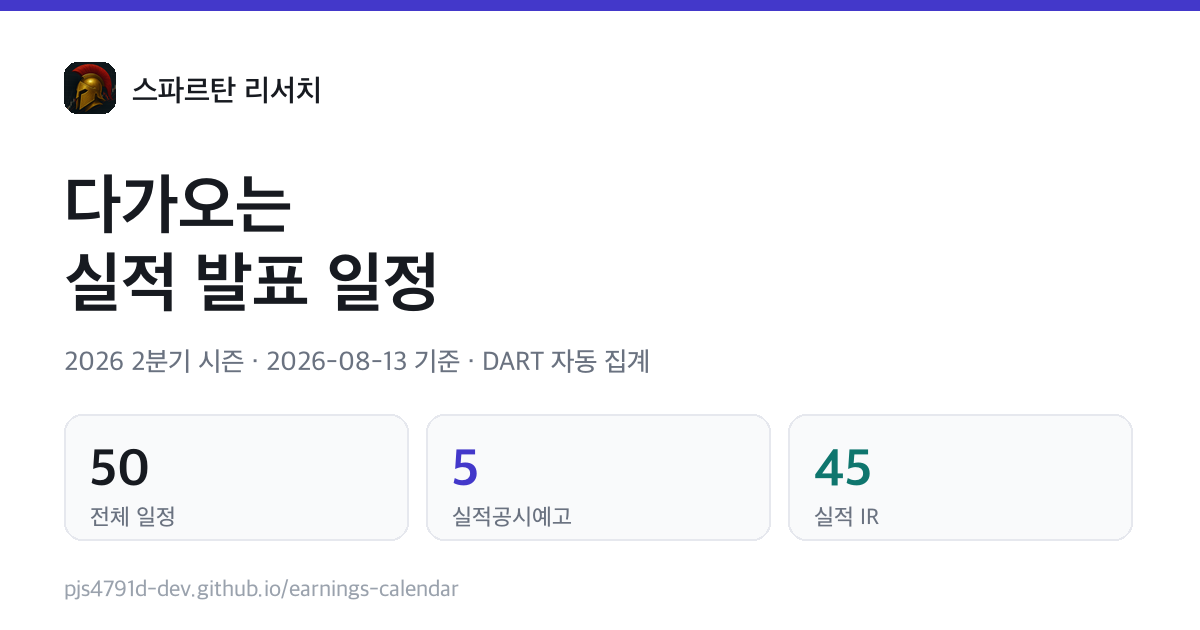
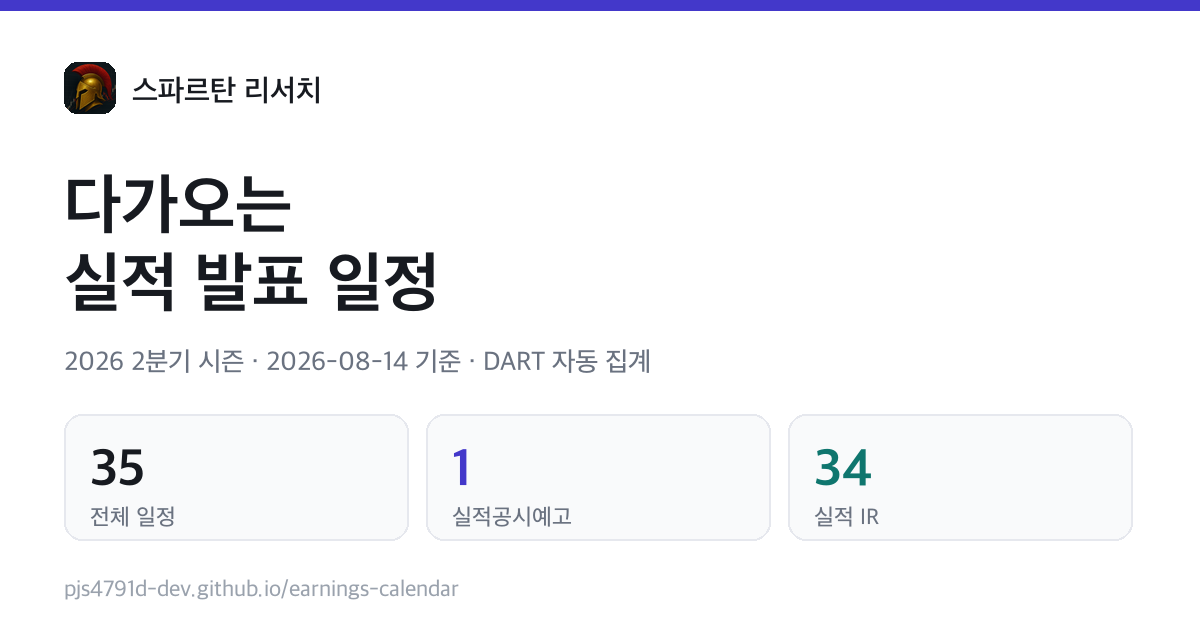
자동 갱신 2026-08-14 09:01

diff --git a/index.html b/index.html
@@ -7,13 +7,13 @@
 <meta property="og:type" content="website">
 <meta property="og:site_name" content="스파르탄 리서치">
 <meta property="og:title" content="다가오는 실적 발표 일정 · 스파르탄 리서치">
-<meta property="og:description" content="2026 2분기 시즌 · 총 50건 (예고 5 · 실적IR 45) · 2026-08-13 기준 · DART 공시 자동 집계">
+<meta property="og:description" content="2026 2분기 시즌 · 총 35건 (예고 1 · 실적IR 34) · 2026-08-14 기준 · DART 공시 자동 집계">
 <meta property="og:url" content="https://pjs4791d-dev.github.io/earnings-calendar/">
 <meta property="og:image" content="https://pjs4791d-dev.github.io/earnings-calendar/og.png">
 <meta property="og:image:width" content="1200">
 <meta property="og:image:height" content="630">
 <meta name="twitter:card" content="summary_large_image">
-<meta name="description" content="2026 2분기 시즌 · 총 50건 (예고 5 · 실적IR 45) · 2026-08-13 기준 · DART 공시 자동 집계">
+<meta name="description" content="2026 2분기 시즌 · 총 35건 (예고 1 · 실적IR 34) · 2026-08-14 기준 · DART 공시 자동 집계">
 <link rel="icon" type="image/png" sizes="32x32" href="icon-32.png">
 <link rel="icon" type="image/png" sizes="64x64" href="icon-64.png">
 <link rel="shortcut icon" href="favicon.ico">
@@ -328,14 +328,14 @@ h1{font-size:26px;line-height:1.18;font-weight:700;letter-spacing:-.025em;margin
 <section id="p-cal">
  <p class="eyebrow">Earnings Calendar · KRX</p>
  <h1>다가오는 실적 발표 일정</h1>
- <p class="meta"><b>2026 2분기</b> 시즌 · 조회기간 <b>2026-07-01 ~ 2026-08-13</b> 접수 공시<br>
+ <p class="meta"><b>2026 2분기</b> 시즌 · 조회기간 <b>2026-07-01 ~ 2026-08-14</b> 접수 공시<br>
    실적공시예고와 실적 관련 IR개최만 자동 선별했습니다.</p>
 
  <div class="stats">
-  <div class="stat"><div class="num" id="cnt">50</div><div class="lbl">전체 일정</div></div>
-  <div class="stat s-yego"><div class="num" id="n-yego">5</div><div class="lbl">실적공시예고</div></div>
-  <div class="stat s-ir"><div class="num" id="n-ir">45</div><div class="lbl">실적 IR</div></div>
-  <div class="stat s-both"><div class="num" id="n-both">4</div><div class="lbl">예고+IR 기업</div></div>
+  <div class="stat"><div class="num" id="cnt">35</div><div class="lbl">전체 일정</div></div>
+  <div class="stat s-yego"><div class="num" id="n-yego">1</div><div class="lbl">실적공시예고</div></div>
+  <div class="stat s-ir"><div class="num" id="n-ir">34</div><div class="lbl">실적 IR</div></div>
+  <div class="stat s-both"><div class="num" id="n-both">1</div><div class="lbl">예고+IR 기업</div></div>
  </div>
 
  <div class="search">
@@ -350,7 +350,7 @@ h1{font-size:26px;line-height:1.18;font-weight:700;letter-spacing:-.025em;margin
   <span class="k"><span class="fu" style="margin:0">후속</span> 이미 발표된 실적의 후속 IR</span>
  </div>
 
- <div class="list"><div class="day" data-d="2026-08-13"><div class="day-d"><span class="dm">8.13</span><span class="dw">목</span><span class="dn">16</span></div><div class="day-e"><a class="ev" href="https://dart.fss.or.kr/dsaf001/main.do?rcpNo=20260811800640" target="_blank" rel="noopener" data-corp="신세계"><div class="ev-t"><span class="notime">시간미정</span></div><div class="ev-c">신세계<span class="fu">후속 · 8/11 발표</span></div><div class="ev-b"><span class="tag t-ir">IR</span><span class="go">↗</span></div></a><a class="ev" href="https://dart.fss.or.kr/dsaf001/main.do?rcpNo=20260807900296" target="_blank" rel="noopener" data-corp="클리오"><div class="ev-t"><span class="notime">시간미정</span></div><div class="ev-c">클리오</div><div class="ev-b"><span class="tag t-yego">예고</span><span class="go">↗</span></div></a><a class="ev" href="https://dart.fss.or.kr/dsaf001/main.do?rcpNo=20260806800162" target="_blank" rel="noopener" data-corp="이마트"><div class="ev-t"><span class="notime">시간미정</span></div><div class="ev-c">이마트<span class="both" title="예고·IR 모두 공시">*</span></div><div class="ev-b"><span class="tag t-yego">예고</span><span class="go">↗</span></div></a><a class="ev" href="https://dart.fss.or.kr/dsaf001/main.do?rcpNo=20260730800315" target="_blank" rel="noopener" data-corp="달바글로벌"><div class="ev-t"><span class="notime">시간미정</span></div><div class="ev-c">달바글로벌<span class="both" title="예고·IR 모두 공시">*</span></div><div class="ev-b"><span class="tag t-yego">예고</span><span class="go">↗</span></div></a><a class="ev" href="https://dart.fss.or.kr/dsaf001/main.do?rcpNo=20260724800729" target="_blank" rel="noopener" data-corp="lg"><div class="ev-t"><span class="notime">시간미정</span></div><div class="ev-c">LG<span class="both" title="예고·IR 모두 공시">*</span></div><div class="ev-b"><span class="tag t-yego">예고</span><span class="go">↗</span></div></a><a class="ev" href="https://dart.fss.or.kr/dsaf001/main.do?rcpNo=20260812900064" target="_blank" rel="noopener" data-corp="티엘비"><div class="ev-t">09:00</div><div class="ev-c">티엘비<span class="fu">후속 · 8/3 발표</span></div><div class="ev-b"><span class="tag t-ir">IR</span><span class="go">↗</span></div></a><a class="ev" href="https://dart.fss.or.kr/dsaf001/main.do?rcpNo=20260731801034" target="_blank" rel="noopener" data-corp="삼성화재해상보험"><div class="ev-t">10:00</div><div class="ev-c">삼성화재해상보험</div><div class="ev-b"><span class="tag t-ir">IR</span><span class="go">↗</span></div></a><a class="ev" href="https://dart.fss.or.kr/dsaf001/main.do?rcpNo=20260730900431" target="_blank" rel="noopener" data-corp="씨어스"><div class="ev-t">10:00</div><div class="ev-c">씨어스</div><div class="ev-b"><span class="tag t-ir">IR</span><span class="go">↗</span></div></a><a class="ev" href="https://dart.fss.or.kr/dsaf001/main.do?rcpNo=20260805800262" target="_blank" rel="noopener" data-corp="동원산업"><div class="ev-t">10:30</div><div class="ev-c">동원산업<span class="fu">후속 · 8/12 발표</span></div><div class="ev-b"><span class="tag t-ir">IR</span><span class="go">↗</span></div></a><a class="ev" href="https://dart.fss.or.kr/dsaf001/main.do?rcpNo=20260706800671" target="_blank" rel="noopener" data-corp="달바글로벌"><div class="ev-t">10:30</div><div class="ev-c">달바글로벌<span class="both" title="예고·IR 모두 공시">*</span></div><div class="ev-b"><span class="tag t-ir">IR</span><span class="go">↗</span></div></a><a class="ev" href="https://dart.fss.or.kr/dsaf001/main.do?rcpNo=20260812900196" target="_blank" rel="noopener" data-corp="쿠콘"><div class="ev-t">14:00</div><div class="ev-c">쿠콘<span class="fu">후속 · 7/28 발표</span></div><div class="ev-b"><span class="tag t-ir">IR</span><span class="go">↗</span></div></a><a class="ev" href="https://dart.fss.or.kr/dsaf001/main.do?rcpNo=20260810800690" target="_blank" rel="noopener" data-corp="금호건설"><div class="ev-t">14:00</div><div class="ev-c">금호건설</div><div class="ev-b"><span class="tag t-ir">IR</span><span class="go">↗</span></div></a><a class="ev" href="https://dart.fss.or.kr/dsaf001/main.do?rcpNo=20260727800655" target="_blank" rel="noopener" data-corp="삼성생명"><div class="ev-t">14:00</div><div class="ev-c">삼성생명</div><div class="ev-b"><span class="tag t-ir">IR</span><span class="go">↗</span></div></a><a class="ev" href="https://dart.fss.or.kr/dsaf001/main.do?rcpNo=20260811900536" target="_blank" rel="noopener" data-corp="실리콘투"><div class="ev-t">15:00</div><div class="ev-c">실리콘투<span class="fu">후속 · 8/12 발표</span></div><div class="ev-b"><span class="tag t-ir">IR</span><span class="go">↗</span></div></a><a class="ev" href="https://dart.fss.or.kr/dsaf001/main.do?rcpNo=20260724800743" target="_blank" rel="noopener" data-corp="lg"><div class="ev-t">15:30</div><div class="ev-c">LG<span class="both" title="예고·IR 모두 공시">*</span></div><div class="ev-b"><span class="tag t-ir">IR</span><span class="go">↗</span></div></a><a class="ev" href="https://dart.fss.or.kr/dsaf001/main.do?rcpNo=20260805800322" target="_blank" rel="noopener" data-corp="db손해보험"><div class="ev-t">16:00</div><div class="ev-c">DB손해보험</div><div class="ev-b"><span class="tag t-ir">IR</span><span class="go">↗</span></div></a></div></div><div class="day" data-d="2026-08-14"><div class="day-d"><span class="dm">8.14</span><span class="dw">금</span><span class="dn">11</span></div><div class="day-e"><a class="ev" href="https://dart.fss.or.kr/dsaf001/main.do?rcpNo=20260812800143" target="_blank" rel="noopener" data-corp="미래에셋증권"><div class="ev-t"><span class="notime">시간미정</span></div><div class="ev-c">미래에셋증권<span class="fu">후속 · 8/12 발표</span></div><div class="ev-b"><span class="tag t-ir">IR</span><span class="go">↗</span></div></a><a class="ev" href="https://dart.fss.or.kr/dsaf001/main.do?rcpNo=20260806800632" target="_blank" rel="noopener" data-corp="sk네트웍스"><div class="ev-t"><span class="notime">시간미정</span></div><div class="ev-c">SK네트웍스<span class="both" title="예고·IR 모두 공시">*</span></div><div class="ev-b"><span class="tag t-yego">예고</span><span class="go">↗</span></div></a><a class="ev" href="https://dart.fss.or.kr/dsaf001/main.do?rcpNo=20260813800089" target="_blank" rel="noopener" data-corp="한국콜마"><div class="ev-t">09:00</div><div class="ev-c">한국콜마<span class="new">NEW</span><span class="fu">후속 · 8/12 발표</span></div><div class="ev-b"><span class="tag t-ir">IR</span><span class="go">↗</span></div></a><a class="ev" href="https://dart.fss.or.kr/dsaf001/main.do?rcpNo=20260811900534" target="_blank" rel="noopener" data-corp="브이티"><div class="ev-t">09:00</div><div class="ev-c">브이티</div><div class="ev-b"><span class="tag t-ir">IR</span><span class="go">↗</span></div></a><a class="ev" href="https://dart.fss.or.kr/dsaf001/main.do?rcpNo=20260714800500" target="_blank" rel="noopener" data-corp="현대해상"><div class="ev-t">10:00</div><div class="ev-c">현대해상</div><div class="ev-b"><span class="tag t-ir">IR</span><span class="go">↗</span></div></a><a class="ev" href="https://dart.fss.or.kr/dsaf001/main.do?rcpNo=20260812800825" target="_blank" rel="noopener" data-corp="아이에스동서"><div class="ev-t">14:00</div><div class="ev-c">아이에스동서</div><div class="ev-b"><span class="tag t-ir">IR</span><span class="go">↗</span></div></a><a class="ev" href="https://dart.fss.or.kr/dsaf001/main.do?rcpNo=20260806800636" target="_blank" rel="noopener" data-corp="sk네트웍스"><div class="ev-t">14:00</div><div class="ev-c">SK네트웍스<span class="both" title="예고·IR 모두 공시">*</span></div><div class="ev-b"><span class="tag t-ir">IR</span><span class="go">↗</span></div></a><a class="ev" href="https://dart.fss.or.kr/dsaf001/main.do?rcpNo=20260804800232" target="_blank" rel="noopener" data-corp="서울보증보험"><div class="ev-t">14:00</div><div class="ev-c">서울보증보험</div><div class="ev-b"><span class="tag t-ir">IR</span><span class="go">↗</span></div></a><a class="ev" href="https://dart.fss.or.kr/dsaf001/main.do?rcpNo=20260805800572" target="_blank" rel="noopener" data-corp="미래에셋생명"><div class="ev-t">16:00</div><div class="ev-c">미래에셋생명</div><div class="ev-b"><span class="tag t-ir">IR</span><span class="go">↗</span></div></a><a class="ev" href="https://dart.fss.or.kr/dsaf001/main.do?rcpNo=20260804800605" target="_blank" rel="noopener" data-corp="에스디바이오센서"><div class="ev-t">16:00</div><div class="ev-c">에스디바이오센서</div><div class="ev-b"><span class="tag t-ir">IR</span><span class="go">↗</span></div></a><a class="ev" href="https://dart.fss.or.kr/dsaf001/main.do?rcpNo=20260811800548" target="_blank" rel="noopener" data-corp="미스토홀딩스"><div class="ev-t">16:30</div><div class="ev-c">미스토홀딩스</div><div class="ev-b"><span class="tag t-ir">IR</span><span class="go">↗</span></div></a></div></div><div class="day" data-d="2026-08-18"><div class="day-d"><span class="dm">8.18</span><span class="dw">화</span><span class="dn">13</span></div><div class="day-e"><a class="ev" href="https://dart.fss.or.kr/dsaf001/main.do?rcpNo=20260813800830" target="_blank" rel="noopener" data-corp="이마트"><div class="ev-t"><span class="notime">시간미정</span></div><div class="ev-c">이마트<span class="both" title="예고·IR 모두 공시">*</span><span class="new">NEW</span><span class="fu">후속 · 8/13 발표</span></div><div class="ev-b"><span class="tag t-ir">IR</span><span class="go">↗</span></div></a><a class="ev" href="https://dart.fss.or.kr/dsaf001/main.do?rcpNo=20260813801008" target="_blank" rel="noopener" data-corp="sk케미칼"><div class="ev-t">09:00</div><div class="ev-c">SK케미칼<span class="new">NEW</span></div><div class="ev-b"><span class="tag t-ir">IR</span><span class="go">↗</span></div></a><a class="ev" href="https://dart.fss.or.kr/dsaf001/main.do?rcpNo=20260813900371" target="_blank" rel="noopener" data-corp="퓨릿"><div class="ev-t">09:00</div><div class="ev-c">퓨릿<span class="new">NEW</span></div><div class="ev-b"><span class="tag t-ir">IR</span><span class="go">↗</span></div></a><a class="ev" href="https://dart.fss.or.kr/dsaf001/main.do?rcpNo=20260813900329" target="_blank" rel="noopener" data-corp="이엔에프테크놀로지"><div class="ev-t">09:00</div><div class="ev-c">이엔에프테크놀로지<span class="new">NEW</span></div><div class="ev-b"><span class="tag t-ir">IR</span><span class="go">↗</span></div></a><a class="ev" href="https://dart.fss.or.kr/dsaf001/main.do?rcpNo=20260812800823" target="_blank" rel="noopener" data-corp="아이에스동서"><div class="ev-t">09:00</div><div class="ev-c">아이에스동서<span class="fu">후속 · 8/14 발표</span></div><div class="ev-b"><span class="tag t-ir">IR</span><span class="go">↗</span></div></a><a class="ev" href="https://dart.fss.or.kr/dsaf001/main.do?rcpNo=20260812900467" target="_blank" rel="noopener" data-corp="컴투스"><div class="ev-t">09:00</div><div class="ev-c">컴투스<span class="fu">후속 · 8/12 발표</span></div><div class="ev-b"><span class="tag t-ir">IR</span><span class="go">↗</span></div></a><a class="ev" href="https://dart.fss.or.kr/dsaf001/main.do?rcpNo=20260811800515" target="_blank" rel="noopener" data-corp="lg"><div class="ev-t">09:00</div><div class="ev-c">LG<span class="both" title="예고·IR 모두 공시">*</span><span class="fu">후속 · 8/13 발표</span></div><div class="ev-b"><span class="tag t-ir">IR</span><span class="go">↗</span></div></a><a class="ev" href="https://dart.fss.or.kr/dsaf001/main.do?rcpNo=20260810800318" target="_blank" rel="noopener" data-corp="dn오토모티브"><div class="ev-t">09:00</div><div class="ev-c">DN오토모티브</div><div class="ev-b"><span class="tag t-ir">IR</span><span class="go">↗</span></div></a><a class="ev" href="https://dart.fss.or.kr/dsaf001/main.do?rcpNo=20260806900214" target="_blank" rel="noopener" data-corp="아로마티카"><div class="ev-t">09:00</div><div class="ev-c">아로마티카<span class="fu">후속 · 8/5 발표</span></div><div class="ev-b"><span class="tag t-ir">IR</span><span class="go">↗</span></div></a><a class="ev" href="https://dart.fss.or.kr/dsaf001/main.do?rcpNo=20260811800679" target="_blank" rel="noopener" data-corp="nhn"><div class="ev-t">09:10</div><div class="ev-c">NHN<span class="fu">후속 · 8/11 발표</span></div><div class="ev-b"><span class="tag t-ir">IR</span><span class="go">↗</span></div></a><a class="ev" href="https://dart.fss.or.kr/dsaf001/main.do?rcpNo=20260813800406" target="_blank" rel="noopener" data-corp="sk이터닉스"><div class="ev-t">10:00</div><div class="ev-c">SK이터닉스<span class="new">NEW</span></div><div class="ev-b"><span class="tag t-ir">IR</span><span class="go">↗</span></div></a><a class="ev" href="https://dart.fss.or.kr/dsaf001/main.do?rcpNo=20260810800827" target="_blank" rel="noopener" data-corp="hl홀딩스"><div class="ev-t">10:00</div><div class="ev-c">HL홀딩스</div><div class="ev-b"><span class="tag t-ir">IR</span><span class="go">↗</span></div></a><a class="ev" href="https://dart.fss.or.kr/dsaf001/main.do?rcpNo=20260812900098" target="_blank" rel="noopener" data-corp="옵티팜"><div class="ev-t">16:00</div><div class="ev-c">옵티팜</div><div class="ev-b"><span class="tag t-ir">IR</span><span class="go">↗</span></div></a></div></div><div class="day" data-d="2026-08-19"><div class="day-d"><span class="dm">8.19</span><span class="dw">수</span><span class="dn">4</span></div><div class="day-e"><a class="ev" href="https://dart.fss.or.kr/dsaf001/main.do?rcpNo=20260813900114" target="_blank" rel="noopener" data-corp="바텍"><div class="ev-t">09:00</div><div class="ev-c">바텍<span class="new">NEW</span><span class="fu">후속 · 8/11 발표</span></div><div class="ev-b"><span class="tag t-ir">IR</span><span class="go">↗</span></div></a><a class="ev" href="https://dart.fss.or.kr/dsaf001/main.do?rcpNo=20260813900091" target="_blank" rel="noopener" data-corp="레이언스"><div class="ev-t">09:00</div><div class="ev-c">레이언스<span class="new">NEW</span><span class="fu">후속 · 8/11 발표</span></div><div class="ev-b"><span class="tag t-ir">IR</span><span class="go">↗</span></div></a><a class="ev" href="https://dart.fss.or.kr/dsaf001/main.do?rcpNo=20260810900129" target="_blank" rel="noopener" data-corp="한스바이오메드"><div class="ev-t">14:00</div><div class="ev-c">한스바이오메드</div><div class="ev-b"><span class="tag t-ir">IR</span><span class="go">↗</span></div></a><a class="ev" href="https://dart.fss.or.kr/dsaf001/main.do?rcpNo=20260728800567" target="_blank" rel="noopener" data-corp="이수스페셜티케미컬"><div class="ev-t">14:00</div><div class="ev-c">이수스페셜티케미컬</div><div class="ev-b"><span class="tag t-ir">IR</span><span class="go">↗</span></div></a></div></div><div class="day" data-d="2026-08-20"><div class="day-d"><span class="dm">8.20</span><span class="dw">목</span><span class="dn">1</span></div><div class="day-e"><a class="ev" href="https://dart.fss.or.kr/dsaf001/main.do?rcpNo=20260730900438" target="_blank" rel="noopener" data-corp="쿠콘"><div class="ev-t">14:00</div><div class="ev-c">쿠콘<span class="fu">후속 · 7/28 발표</span></div><div class="ev-b"><span class="tag t-ir">IR</span><span class="go">↗</span></div></a></div></div><div class="day" data-d="2026-08-21"><div class="day-d"><span class="dm">8.21</span><span class="dw">금</span><span class="dn">3</span></div><div class="day-e"><a class="ev" href="https://dart.fss.or.kr/dsaf001/main.do?rcpNo=20260812800614" target="_blank" rel="noopener" data-corp="미래에셋생명"><div class="ev-t">09:00</div><div class="ev-c">미래에셋생명<span class="fu">후속 · 8/14 발표</span></div><div class="ev-b"><span class="tag t-ir">IR</span><span class="go">↗</span></div></a><a class="ev" href="https://dart.fss.or.kr/dsaf001/main.do?rcpNo=20260812900695" target="_blank" rel="noopener" data-corp="누보"><div class="ev-t">14:00</div><div class="ev-c">누보<span class="fu">후속 · 7/30 발표</span></div><div class="ev-b"><span class="tag t-ir">IR</span><span class="go">↗</span></div></a><a class="ev" href="https://dart.fss.or.kr/dsaf001/main.do?rcpNo=20260812900345" target="_blank" rel="noopener" data-corp="제노레이"><div class="ev-t">16:00</div><div class="ev-c">제노레이</div><div class="ev-b"><span class="tag t-ir">IR</span><span class="go">↗</span></div></a></div></div><div class="day" data-d="2026-08-25"><div class="day-d"><span class="dm">8.25</span><span class="dw">화</span><span class="dn">1</span></div><div class="day-e"><a class="ev" href="https://dart.fss.or.kr/dsaf001/main.do?rcpNo=20260811800517" target="_blank" rel="noopener" data-corp="lg"><div class="ev-t">09:00</div><div class="ev-c">LG<span class="both" title="예고·IR 모두 공시">*</span><span class="fu">후속 · 8/13 발표</span></div><div class="ev-b"><span class="tag t-ir">IR</span><span class="go">↗</span></div></a></div></div><div class="day" data-d="2026-08-26"><div class="day-d"><span class="dm">8.26</span><span class="dw">수</span><span class="dn">1</span></div><div class="day-e"><a class="ev" href="https://dart.fss.or.kr/dsaf001/main.do?rcpNo=20260811900348" target="_blank" rel="noopener" data-corp="에스앤에스텍"><div class="ev-t">09:00</div><div class="ev-c">에스앤에스텍<span class="fu">후속 · 8/3 발표</span></div><div class="ev-b"><span class="tag t-ir">IR</span><span class="go">↗</span></div></a></div></div></div>
+ <div class="list"><div class="day" data-d="2026-08-14"><div class="day-d"><span class="dm">8.14</span><span class="dw">금</span><span class="dn">11</span></div><div class="day-e"><a class="ev" href="https://dart.fss.or.kr/dsaf001/main.do?rcpNo=20260812800143" target="_blank" rel="noopener" data-corp="미래에셋증권"><div class="ev-t"><span class="notime">시간미정</span></div><div class="ev-c">미래에셋증권<span class="fu">후속 · 8/12 발표</span></div><div class="ev-b"><span class="tag t-ir">IR</span><span class="go">↗</span></div></a><a class="ev" href="https://dart.fss.or.kr/dsaf001/main.do?rcpNo=20260806800632" target="_blank" rel="noopener" data-corp="sk네트웍스"><div class="ev-t"><span class="notime">시간미정</span></div><div class="ev-c">SK네트웍스<span class="both" title="예고·IR 모두 공시">*</span></div><div class="ev-b"><span class="tag t-yego">예고</span><span class="go">↗</span></div></a><a class="ev" href="https://dart.fss.or.kr/dsaf001/main.do?rcpNo=20260813800089" target="_blank" rel="noopener" data-corp="한국콜마"><div class="ev-t">09:00</div><div class="ev-c">한국콜마<span class="fu">후속 · 8/12 발표</span></div><div class="ev-b"><span class="tag t-ir">IR</span><span class="go">↗</span></div></a><a class="ev" href="https://dart.fss.or.kr/dsaf001/main.do?rcpNo=20260811900534" target="_blank" rel="noopener" data-corp="브이티"><div class="ev-t">09:00</div><div class="ev-c">브이티</div><div class="ev-b"><span class="tag t-ir">IR</span><span class="go">↗</span></div></a><a class="ev" href="https://dart.fss.or.kr/dsaf001/main.do?rcpNo=20260714800500" target="_blank" rel="noopener" data-corp="현대해상"><div class="ev-t">10:00</div><div class="ev-c">현대해상</div><div class="ev-b"><span class="tag t-ir">IR</span><span class="go">↗</span></div></a><a class="ev" href="https://dart.fss.or.kr/dsaf001/main.do?rcpNo=20260812800825" target="_blank" rel="noopener" data-corp="아이에스동서"><div class="ev-t">14:00</div><div class="ev-c">아이에스동서</div><div class="ev-b"><span class="tag t-ir">IR</span><span class="go">↗</span></div></a><a class="ev" href="https://dart.fss.or.kr/dsaf001/main.do?rcpNo=20260806800636" target="_blank" rel="noopener" data-corp="sk네트웍스"><div class="ev-t">14:00</div><div class="ev-c">SK네트웍스<span class="both" title="예고·IR 모두 공시">*</span></div><div class="ev-b"><span class="tag t-ir">IR</span><span class="go">↗</span></div></a><a class="ev" href="https://dart.fss.or.kr/dsaf001/main.do?rcpNo=20260804800232" target="_blank" rel="noopener" data-corp="서울보증보험"><div class="ev-t">14:00</div><div class="ev-c">서울보증보험</div><div class="ev-b"><span class="tag t-ir">IR</span><span class="go">↗</span></div></a><a class="ev" href="https://dart.fss.or.kr/dsaf001/main.do?rcpNo=20260805800572" target="_blank" rel="noopener" data-corp="미래에셋생명"><div class="ev-t">16:00</div><div class="ev-c">미래에셋생명</div><div class="ev-b"><span class="tag t-ir">IR</span><span class="go">↗</span></div></a><a class="ev" href="https://dart.fss.or.kr/dsaf001/main.do?rcpNo=20260804800605" target="_blank" rel="noopener" data-corp="에스디바이오센서"><div class="ev-t">16:00</div><div class="ev-c">에스디바이오센서</div><div class="ev-b"><span class="tag t-ir">IR</span><span class="go">↗</span></div></a><a class="ev" href="https://dart.fss.or.kr/dsaf001/main.do?rcpNo=20260811800548" target="_blank" rel="noopener" data-corp="미스토홀딩스"><div class="ev-t">16:30</div><div class="ev-c">미스토홀딩스</div><div class="ev-b"><span class="tag t-ir">IR</span><span class="go">↗</span></div></a></div></div><div class="day" data-d="2026-08-18"><div class="day-d"><span class="dm">8.18</span><span class="dw">화</span><span class="dn">13</span></div><div class="day-e"><a class="ev" href="https://dart.fss.or.kr/dsaf001/main.do?rcpNo=20260813800830" target="_blank" rel="noopener" data-corp="이마트"><div class="ev-t"><span class="notime">시간미정</span></div><div class="ev-c">이마트<span class="fu">후속 · 8/13 발표</span></div><div class="ev-b"><span class="tag t-ir">IR</span><span class="go">↗</span></div></a><a class="ev" href="https://dart.fss.or.kr/dsaf001/main.do?rcpNo=20260813801008" target="_blank" rel="noopener" data-corp="sk케미칼"><div class="ev-t">09:00</div><div class="ev-c">SK케미칼</div><div class="ev-b"><span class="tag t-ir">IR</span><span class="go">↗</span></div></a><a class="ev" href="https://dart.fss.or.kr/dsaf001/main.do?rcpNo=20260813900371" target="_blank" rel="noopener" data-corp="퓨릿"><div class="ev-t">09:00</div><div class="ev-c">퓨릿</div><div class="ev-b"><span class="tag t-ir">IR</span><span class="go">↗</span></div></a><a class="ev" href="https://dart.fss.or.kr/dsaf001/main.do?rcpNo=20260813900329" target="_blank" rel="noopener" data-corp="이엔에프테크놀로지"><div class="ev-t">09:00</div><div class="ev-c">이엔에프테크놀로지</div><div class="ev-b"><span class="tag t-ir">IR</span><span class="go">↗</span></div></a><a class="ev" href="https://dart.fss.or.kr/dsaf001/main.do?rcpNo=20260812800823" target="_blank" rel="noopener" data-corp="아이에스동서"><div class="ev-t">09:00</div><div class="ev-c">아이에스동서<span class="fu">후속 · 8/14 발표</span></div><div class="ev-b"><span class="tag t-ir">IR</span><span class="go">↗</span></div></a><a class="ev" href="https://dart.fss.or.kr/dsaf001/main.do?rcpNo=20260812900467" target="_blank" rel="noopener" data-corp="컴투스"><div class="ev-t">09:00</div><div class="ev-c">컴투스<span class="fu">후속 · 8/12 발표</span></div><div class="ev-b"><span class="tag t-ir">IR</span><span class="go">↗</span></div></a><a class="ev" href="https://dart.fss.or.kr/dsaf001/main.do?rcpNo=20260811800515" target="_blank" rel="noopener" data-corp="lg"><div class="ev-t">09:00</div><div class="ev-c">LG<span class="fu">후속 · 8/13 발표</span></div><div class="ev-b"><span class="tag t-ir">IR</span><span class="go">↗</span></div></a><a class="ev" href="https://dart.fss.or.kr/dsaf001/main.do?rcpNo=20260810800318" target="_blank" rel="noopener" data-corp="dn오토모티브"><div class="ev-t">09:00</div><div class="ev-c">DN오토모티브</div><div class="ev-b"><span class="tag t-ir">IR</span><span class="go">↗</span></div></a><a class="ev" href="https://dart.fss.or.kr/dsaf001/main.do?rcpNo=20260806900214" target="_blank" rel="noopener" data-corp="아로마티카"><div class="ev-t">09:00</div><div class="ev-c">아로마티카<span class="fu">후속 · 8/5 발표</span></div><div class="ev-b"><span class="tag t-ir">IR</span><span class="go">↗</span></div></a><a class="ev" href="https://dart.fss.or.kr/dsaf001/main.do?rcpNo=20260811800679" target="_blank" rel="noopener" data-corp="nhn"><div class="ev-t">09:10</div><div class="ev-c">NHN<span class="fu">후속 · 8/11 발표</span></div><div class="ev-b"><span class="tag t-ir">IR</span><span class="go">↗</span></div></a><a class="ev" href="https://dart.fss.or.kr/dsaf001/main.do?rcpNo=20260813800406" target="_blank" rel="noopener" data-corp="sk이터닉스"><div class="ev-t">10:00</div><div class="ev-c">SK이터닉스</div><div class="ev-b"><span class="tag t-ir">IR</span><span class="go">↗</span></div></a><a class="ev" href="https://dart.fss.or.kr/dsaf001/main.do?rcpNo=20260810800827" target="_blank" rel="noopener" data-corp="hl홀딩스"><div class="ev-t">10:00</div><div class="ev-c">HL홀딩스</div><div class="ev-b"><span class="tag t-ir">IR</span><span class="go">↗</span></div></a><a class="ev" href="https://dart.fss.or.kr/dsaf001/main.do?rcpNo=20260812900098" target="_blank" rel="noopener" data-corp="옵티팜"><div class="ev-t">16:00</div><div class="ev-c">옵티팜</div><div class="ev-b"><span class="tag t-ir">IR</span><span class="go">↗</span></div></a></div></div><div class="day" data-d="2026-08-19"><div class="day-d"><span class="dm">8.19</span><span class="dw">수</span><span class="dn">4</span></div><div class="day-e"><a class="ev" href="https://dart.fss.or.kr/dsaf001/main.do?rcpNo=20260813900114" target="_blank" rel="noopener" data-corp="바텍"><div class="ev-t">09:00</div><div class="ev-c">바텍<span class="fu">후속 · 8/11 발표</span></div><div class="ev-b"><span class="tag t-ir">IR</span><span class="go">↗</span></div></a><a class="ev" href="https://dart.fss.or.kr/dsaf001/main.do?rcpNo=20260813900091" target="_blank" rel="noopener" data-corp="레이언스"><div class="ev-t">09:00</div><div class="ev-c">레이언스<span class="fu">후속 · 8/11 발표</span></div><div class="ev-b"><span class="tag t-ir">IR</span><span class="go">↗</span></div></a><a class="ev" href="https://dart.fss.or.kr/dsaf001/main.do?rcpNo=20260810900129" target="_blank" rel="noopener" data-corp="한스바이오메드"><div class="ev-t">14:00</div><div class="ev-c">한스바이오메드</div><div class="ev-b"><span class="tag t-ir">IR</span><span class="go">↗</span></div></a><a class="ev" href="https://dart.fss.or.kr/dsaf001/main.do?rcpNo=20260728800567" target="_blank" rel="noopener" data-corp="이수스페셜티케미컬"><div class="ev-t">14:00</div><div class="ev-c">이수스페셜티케미컬</div><div class="ev-b"><span class="tag t-ir">IR</span><span class="go">↗</span></div></a></div></div><div class="day" data-d="2026-08-20"><div class="day-d"><span class="dm">8.20</span><span class="dw">목</span><span class="dn">2</span></div><div class="day-e"><a class="ev" href="https://dart.fss.or.kr/dsaf001/main.do?rcpNo=20260814800059" target="_blank" rel="noopener" data-corp="한국금융지주"><div class="ev-t">09:10</div><div class="ev-c">한국금융지주<span class="new">NEW</span><span class="fu">후속 · 8/6 발표</span></div><div class="ev-b"><span class="tag t-ir">IR</span><span class="go">↗</span></div></a><a class="ev" href="https://dart.fss.or.kr/dsaf001/main.do?rcpNo=20260730900438" target="_blank" rel="noopener" data-corp="쿠콘"><div class="ev-t">14:00</div><div class="ev-c">쿠콘<span class="fu">후속 · 7/28 발표</span></div><div class="ev-b"><span class="tag t-ir">IR</span><span class="go">↗</span></div></a></div></div><div class="day" data-d="2026-08-21"><div class="day-d"><span class="dm">8.21</span><span class="dw">금</span><span class="dn">3</span></div><div class="day-e"><a class="ev" href="https://dart.fss.or.kr/dsaf001/main.do?rcpNo=20260812800614" target="_blank" rel="noopener" data-corp="미래에셋생명"><div class="ev-t">09:00</div><div class="ev-c">미래에셋생명<span class="fu">후속 · 8/14 발표</span></div><div class="ev-b"><span class="tag t-ir">IR</span><span class="go">↗</span></div></a><a class="ev" href="https://dart.fss.or.kr/dsaf001/main.do?rcpNo=20260812900695" target="_blank" rel="noopener" data-corp="누보"><div class="ev-t">14:00</div><div class="ev-c">누보<span class="fu">후속 · 7/30 발표</span></div><div class="ev-b"><span class="tag t-ir">IR</span><span class="go">↗</span></div></a><a class="ev" href="https://dart.fss.or.kr/dsaf001/main.do?rcpNo=20260812900345" target="_blank" rel="noopener" data-corp="제노레이"><div class="ev-t">16:00</div><div class="ev-c">제노레이</div><div class="ev-b"><span class="tag t-ir">IR</span><span class="go">↗</span></div></a></div></div><div class="day" data-d="2026-08-25"><div class="day-d"><span class="dm">8.25</span><span class="dw">화</span><span class="dn">1</span></div><div class="day-e"><a class="ev" href="https://dart.fss.or.kr/dsaf001/main.do?rcpNo=20260811800517" target="_blank" rel="noopener" data-corp="lg"><div class="ev-t">09:00</div><div class="ev-c">LG<span class="fu">후속 · 8/13 발표</span></div><div class="ev-b"><span class="tag t-ir">IR</span><span class="go">↗</span></div></a></div></div><div class="day" data-d="2026-08-26"><div class="day-d"><span class="dm">8.26</span><span class="dw">수</span><span class="dn">1</span></div><div class="day-e"><a class="ev" href="https://dart.fss.or.kr/dsaf001/main.do?rcpNo=20260811900348" target="_blank" rel="noopener" data-corp="에스앤에스텍"><div class="ev-t">09:00</div><div class="ev-c">에스앤에스텍<span class="fu">후속 · 8/3 발표</span></div><div class="ev-b"><span class="tag t-ir">IR</span><span class="go">↗</span></div></a></div></div></div>
  <div class="empty" id="empty">검색 결과가 없습니다.</div>
 </section>
 
@@ -407,7 +407,7 @@ h1{font-size:26px;line-height:1.18;font-weight:700;letter-spacing:-.025em;margin
 
  <p class="foot"><a href="https://t.me/SpartanResearch" target="_blank" rel="noopener">스파르탄 리서치 · t.me/SpartanResearch</a><br>
    출처: 금융감독원 전자공시시스템(DART) · 자동 집계<br>
-   생성 2026-08-13 20:01 · 평일 매일 자동 갱신</p>
+   생성 2026-08-14 09:01 · 평일 매일 자동 갱신</p>
 </div>
 
 <script>
